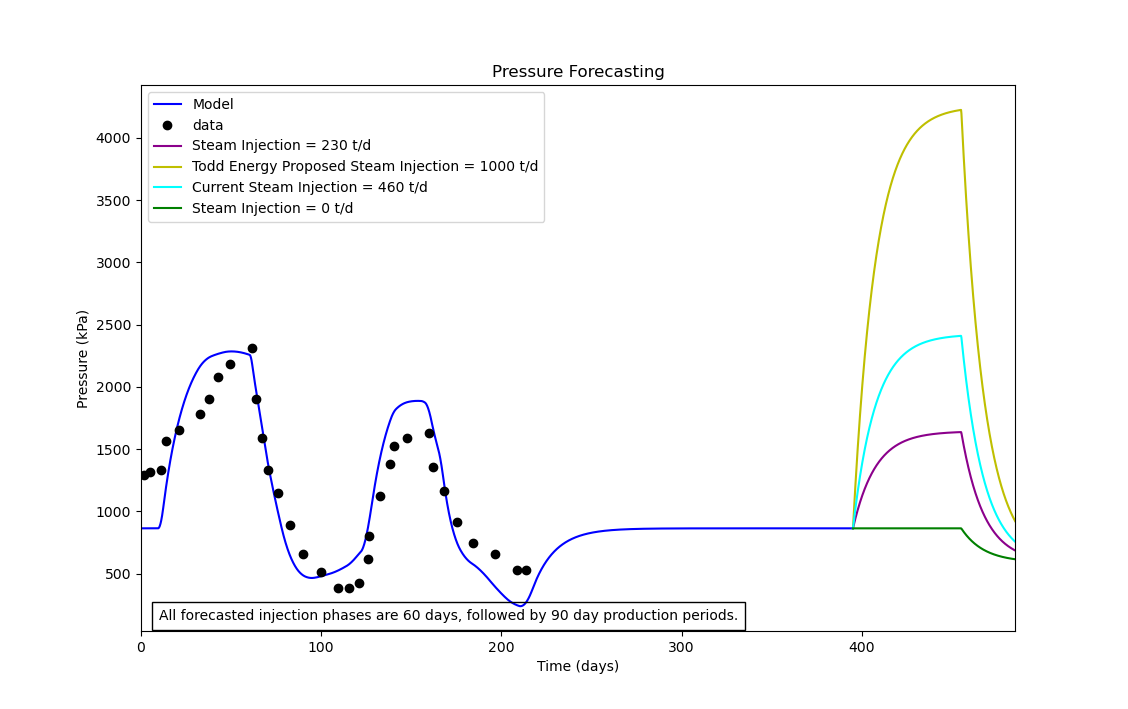
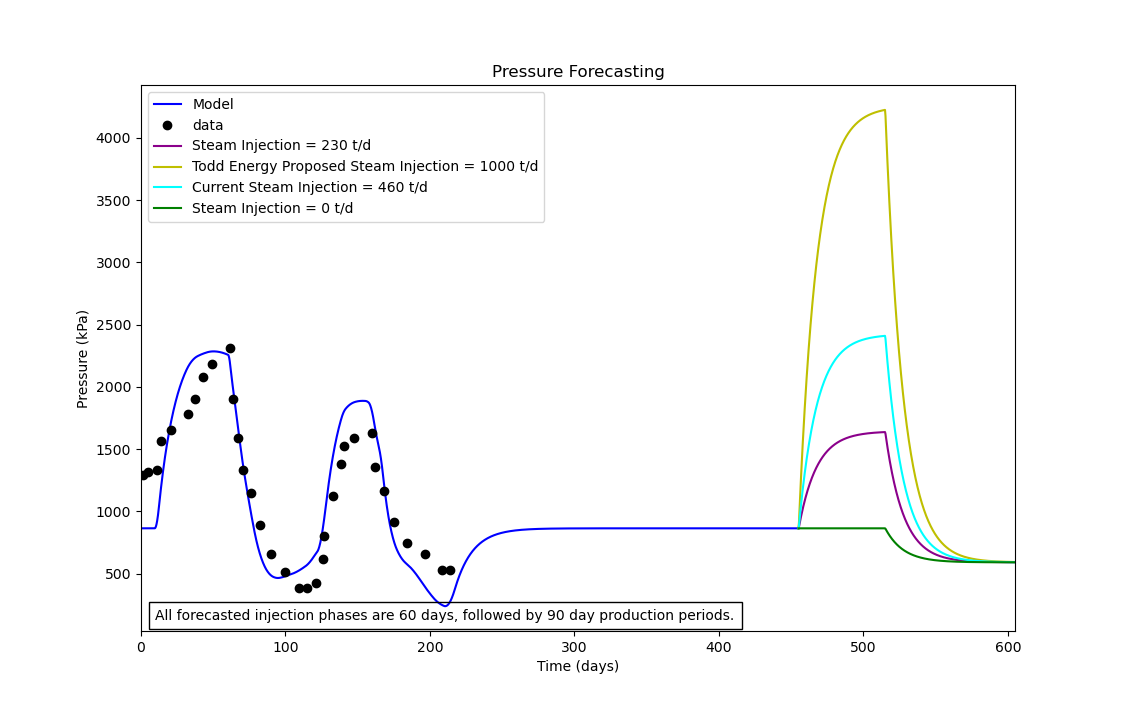
fixed time axis of forecasts and uncertainty bug

diff --git a/main.py b/main.py
@@ -134,7 +134,8 @@ class Qterms:
         self.interpSteam = interp1d(steam[0], steam[1])
 
         # Storing the time values for injection end and projection end of forecasts.
-        self.forcInjecEnd = 395 + 60
+        self.forcInjecStart = 365 + 90
+        self.forcInjecEnd = 365 + 60 + 90
         self.forcProducEnd = self.forcInjecEnd + 90
 
         # Assigns value to be used for qs during injection period.
@@ -205,8 +206,10 @@ class Qterms:
         elif((t >= self.steam[0][0]) and (t <= self.steam[0][-1])):
             # Within given qs values.
             s = self.interpSteam(t)
-        elif ((t > self.steam[0][-1]) and (t <= self.forcInjecEnd)):
+        elif ((t > self.steam[0][-1]) and (t <= self.forcInjecStart)):
             # For forecasted injection period.
+            s = 0
+        elif ((t > self.steam[0][-1]) and (t <= self.forcInjecEnd)):
             s = self.forc_s
         elif ((t > self.forcInjecEnd)) and (t <= self.forcProducEnd):
             # For forecasted production period.
@@ -287,7 +290,7 @@ if __name__ == "__main__":
 
 
     # Initial pressure model fitting:
-    t1=np.linspace(0,395,3950)
+    t1=np.linspace(0,455,3950)
 
     # first pressure model initial guesses:
     a = 0.2
@@ -423,7 +426,7 @@ if __name__ == "__main__":
 
 
     # Forecasts:
-    tf = np.linspace(t1[-1], 485, 900)
+    tf = np.linspace(t1[-1], 605, 900)
     # Forecast 1
     # Tood Energy proposal of steam injection of 1000 tonnes per day 60 days, followed by 90 day production periods.
     Qf1 = Qterms(1000)
